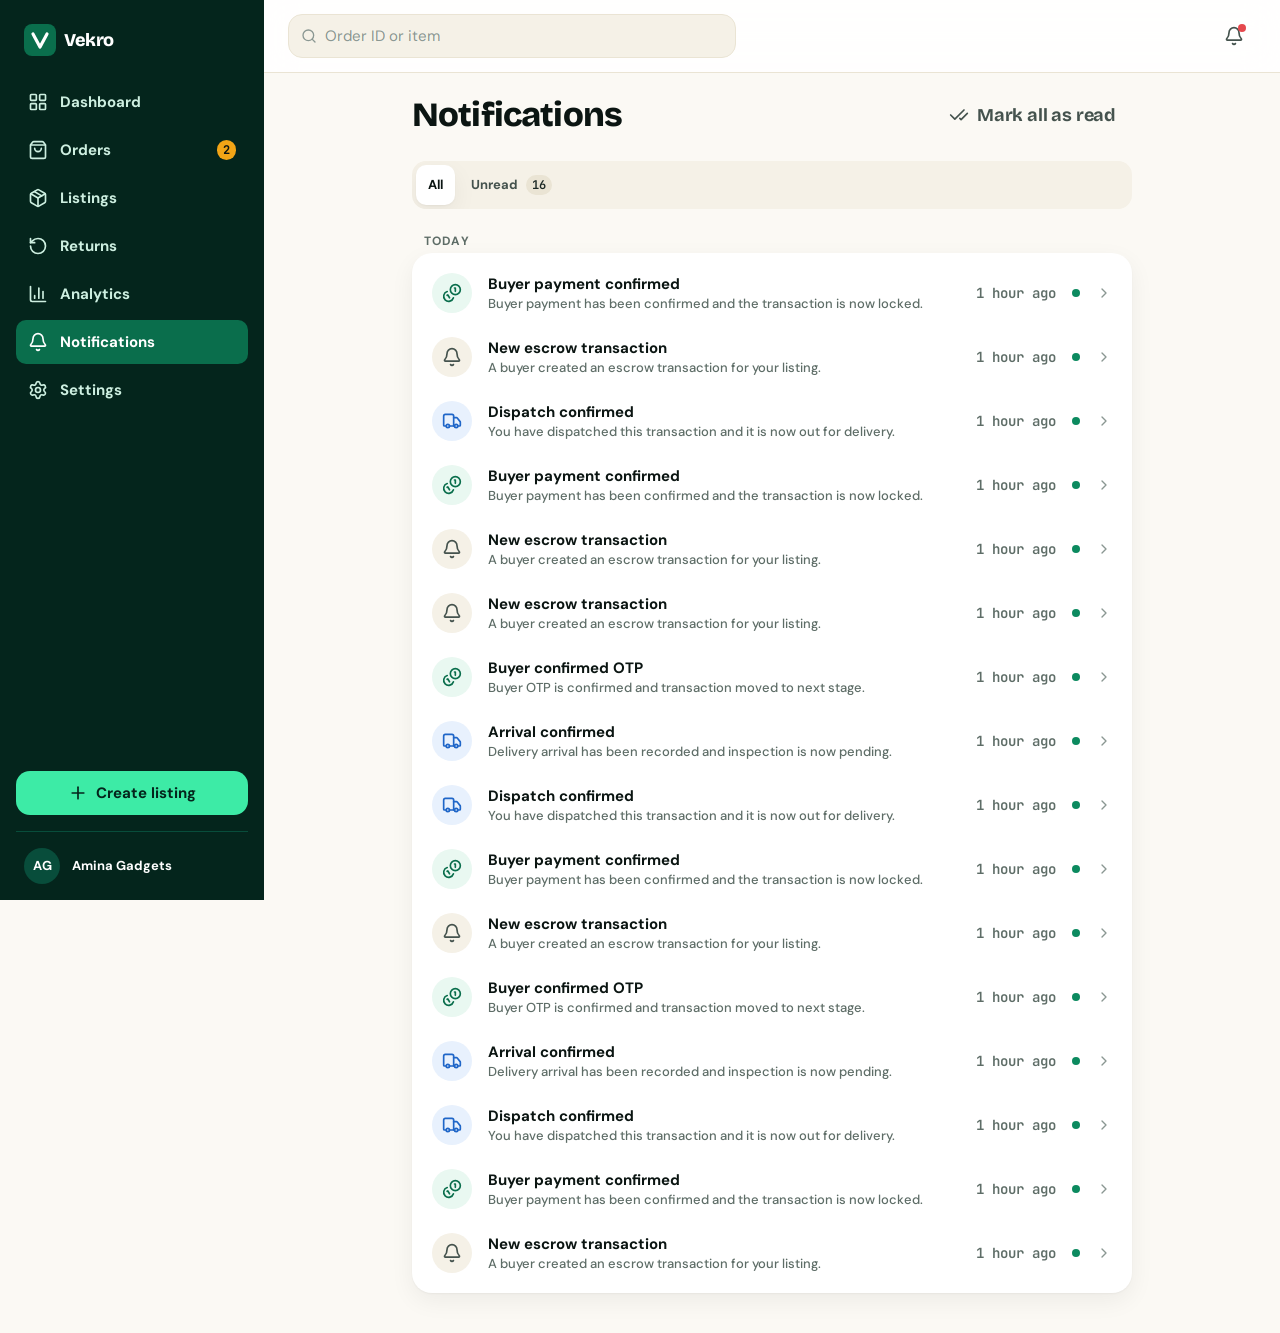
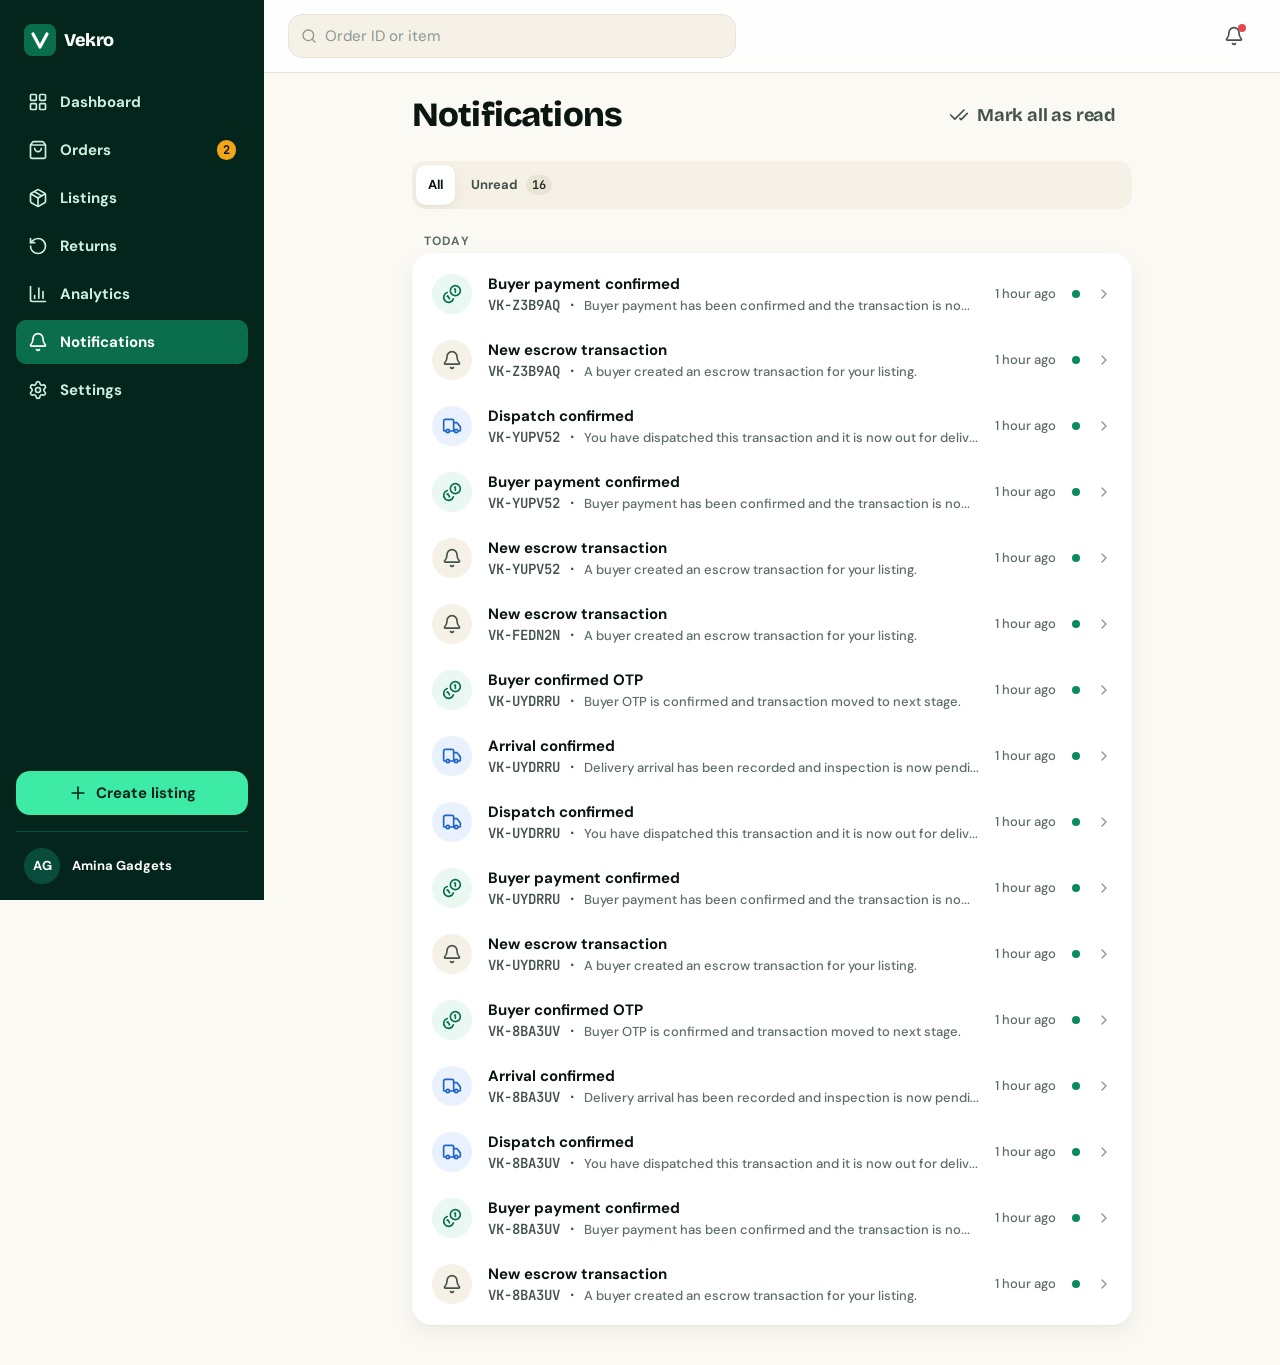
fix(seller): order reference on notification rows, roomier phone layout (#104) (#238)

diff --git a/src/views/pages/seller/NotificationsPage.tsx b/src/views/pages/seller/NotificationsPage.tsx
@@ -46,7 +46,7 @@ function Row({ row, onOpen }: { row: NotificationRow; onOpen: () => void }) {
       <Link
         to={row.to}
         onClick={onOpen}
-        className="flex min-h-16 w-full items-center gap-4 rounded-md px-3 py-3 text-left transition-colors hover:bg-sand-50"
+        className="flex min-h-16 w-full items-center gap-3 rounded-md px-2 py-3 sm:gap-4 sm:px-3 text-left transition-colors hover:bg-sand-50"
       >
         <span className={cn('grid size-10 shrink-0 place-items-center rounded-full', tint)}>
           <Icon aria-hidden="true" className="size-5" />
@@ -61,9 +61,16 @@ function Row({ row, onOpen }: { row: NotificationRow; onOpen: () => void }) {
           >
             {row.title}
           </span>
-          <span className="type-body-sm block truncate text-text-muted">{row.detail}</span>
+          <span className="type-body-sm block truncate text-text-muted">
+            {row.reference && <span className="type-mono text-ink-600">{row.reference} · </span>}
+            {row.detail}
+          </span>
         </span>
-        <time dateTime={row.at} title={row.timeFull} className="type-mono shrink-0 text-text-muted">
+        <time
+          dateTime={row.at}
+          title={row.timeFull}
+          className="type-body-sm shrink-0 whitespace-nowrap text-text-muted"
+        >
           {row.time}
         </time>
         <span
@@ -73,7 +80,7 @@ function Row({ row, onOpen }: { row: NotificationRow; onOpen: () => void }) {
             row.unread ? 'opacity-100' : 'opacity-0',
           )}
         />
-        <ChevronRight aria-hidden="true" className="size-4 shrink-0 text-ink-400" />
+        <ChevronRight aria-hidden="true" className="hidden size-4 shrink-0 text-ink-400 sm:block" />
       </Link>
     </motion.li>
   )
@@ -84,9 +91,14 @@ export function NotificationsPage() {
   const p = useNotificationsPage()
   return (
     <div className="mx-auto flex w-full max-w-180 flex-col gap-6">
-      <div className="flex items-center justify-between gap-4">
+      <div className="flex flex-wrap items-center justify-between gap-x-4 gap-y-2">
         <h1 className="type-display-lg text-text">Notifications</h1>
-        <Button variant="ghost" disabled={!p.canMarkAll} onClick={() => void p.markAll()}>
+        <Button
+          variant="ghost"
+          className="whitespace-nowrap"
+          disabled={!p.canMarkAll}
+          onClick={() => void p.markAll()}
+        >
           <CheckCheck aria-hidden="true" className="size-5" />
           Mark all as read
         </Button>

diff --git a/src/views/pages/seller/NotificationsPage.test.tsx b/src/views/pages/seller/NotificationsPage.test.tsx
@@ -63,7 +63,7 @@ describe('S14 notifications', () => {
     renderPage()
     expect(await screen.findByRole('heading', { name: 'Today' })).toBeInTheDocument()
     expect(screen.getByRole('heading', { name: 'Earlier' })).toBeInTheDocument()
-    expect(screen.getByRole('link', { name: /Unread: Payment received for VK-7K3P9Q/ })).toHaveAttribute(
+    expect(screen.getByRole('link', { name: /Unread: Buyer payment confirmed VK-7K3P9Q/ })).toHaveAttribute(
       'href',
       `/seller/orders/${unread.transaction_id}`,
     )
@@ -77,7 +77,7 @@ describe('S14 notifications', () => {
   it('marks a notification read when it is opened', async () => {
     serve()
     const { user } = renderPage()
-    await user.click(await screen.findByRole('link', { name: /Unread: Payment received/ }))
+    await user.click(await screen.findByRole('link', { name: /Unread: Buyer payment confirmed/ }))
     expect(await screen.findByRole('heading', { name: 'Order' })).toBeInTheDocument()
     await waitFor(() => expect(marked).toEqual(['n-1']))
   })

diff --git a/src/controllers/useNotificationsPage.ts b/src/controllers/useNotificationsPage.ts
@@ -24,6 +24,7 @@ export interface NotificationRow {
   id: string
   kind: NotificationKind
   title: string
+  reference: string | null
   detail: string
   time: string
   timeFull: string
@@ -67,6 +68,7 @@ export function groupByDay(items: AppNotification[], now = new Date()): Notifica
       id: n.id,
       kind: KIND[n.event] ?? 'other',
       title: n.title,
+      reference: n.reference,
       detail: n.message,
       time: formatRelative(n.createdAt, now),
       timeFull: formatEatFull(n.createdAt),

diff --git a/src/models/api/schema.d.ts b/src/models/api/schema.d.ts
@@ -1721,6 +1721,11 @@ export interface components {
              * Format: uuid
              */
             transaction_id: string;
+            /**
+             * Transaction Reference
+             * @description The order's human reference, for example VK-7K3P9Q.
+             */
+            transaction_reference?: string | null;
             event_type: components["schemas"]["NotificationEventType"];
             channel: components["schemas"]["NotificationChannel"];
             /** Title */

diff --git a/src/test/fixtures.ts b/src/test/fixtures.ts
@@ -161,9 +161,10 @@ export const notificationResponse = (
   id: 'n-1',
   user_id: listingResponse().seller_id,
   transaction_id: orderResponse().id,
+  transaction_reference: 'VK-7K3P9Q',
   event_type: 'transaction_locked',
   channel: 'in_app',
-  title: 'Payment received for VK-7K3P9Q',
+  title: 'Buyer payment confirmed',
   message: 'KES 52,000 is held in escrow. Dispatch within 48 hours.',
   payload: {},
   is_read: false,

diff --git a/src/models/domain/notification.ts b/src/models/domain/notification.ts
@@ -6,6 +6,8 @@ export type NotificationEvent = components['schemas']['NotificationEventType']
 export interface AppNotification {
   id: string
   orderId: string
+  /** The order's human reference (VK-7K3P9Q), never the id. */
+  reference: string | null
   event: NotificationEvent
   title: string
   message: string

diff --git a/src/models/api/notifications.ts b/src/models/api/notifications.ts
@@ -6,6 +6,7 @@ export const NOTIFICATION_PAGE = 50
 const toNotification = (raw: Schemas['NotificationResponse']): AppNotification => ({
   id: raw.id,
   orderId: raw.transaction_id,
+  reference: raw.transaction_reference ?? null,
   event: raw.event_type,
   title: raw.title,
   message: raw.message,

diff --git a/src/controllers/useNotificationsPage.test.ts b/src/controllers/useNotificationsPage.test.ts
@@ -5,6 +5,7 @@ import { groupByDay, linkFor } from './useNotificationsPage'
 const n = (id: string, createdAt: string, extra: Partial<AppNotification> = {}): AppNotification => ({
   id,
   orderId: 'o1',
+  reference: 'VK-7K3P9Q',
   event: 'transaction_locked',
   title: id,
   message: '',
